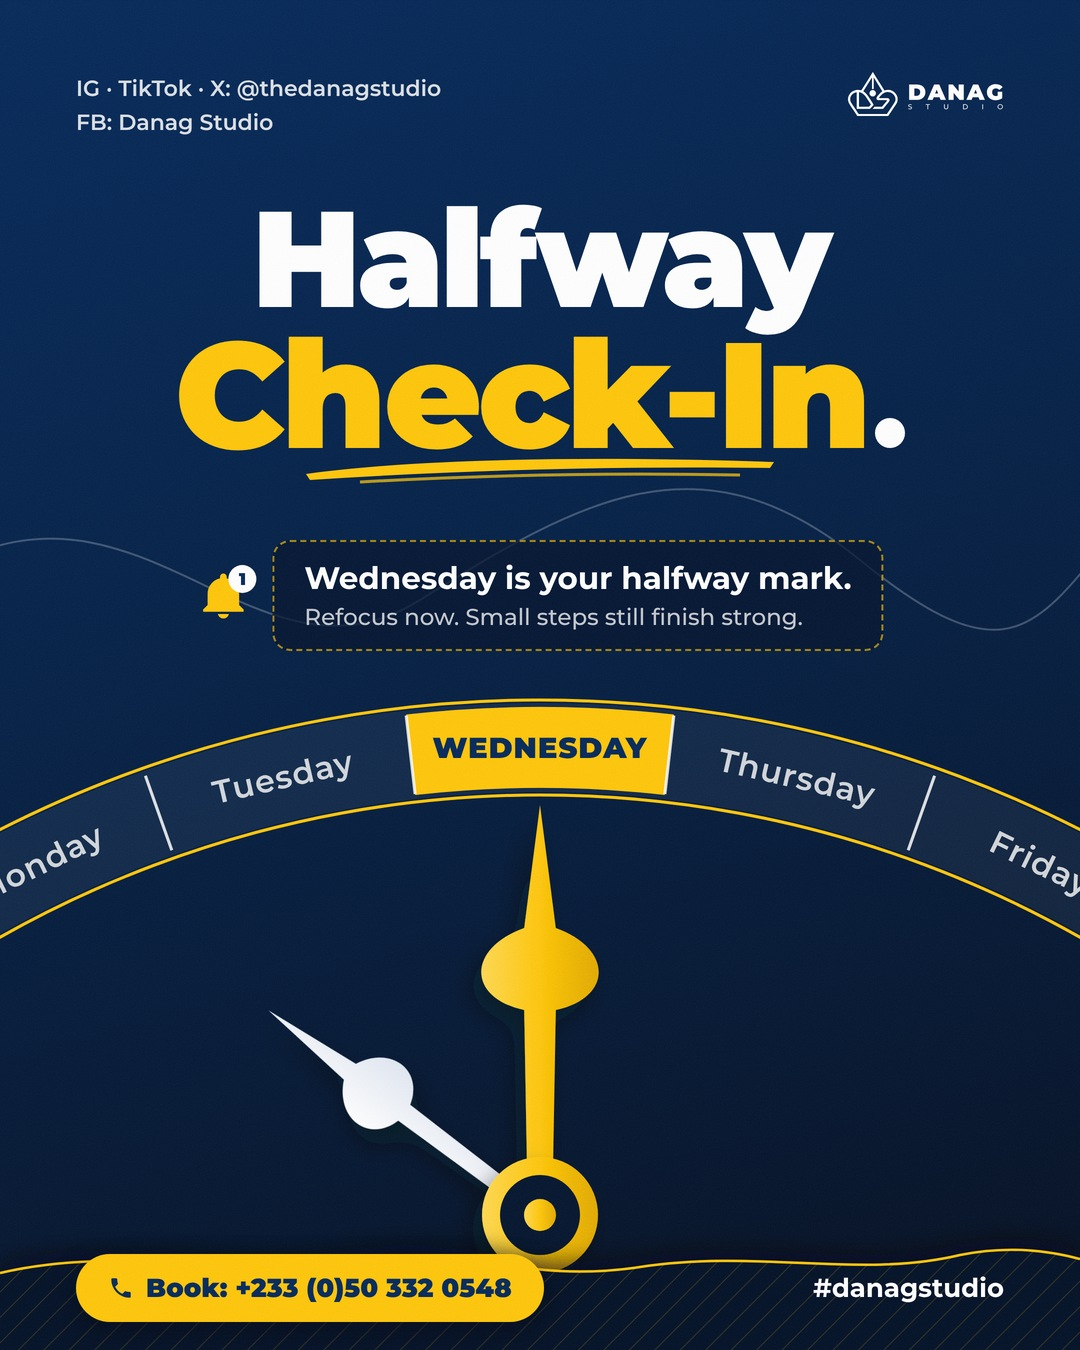
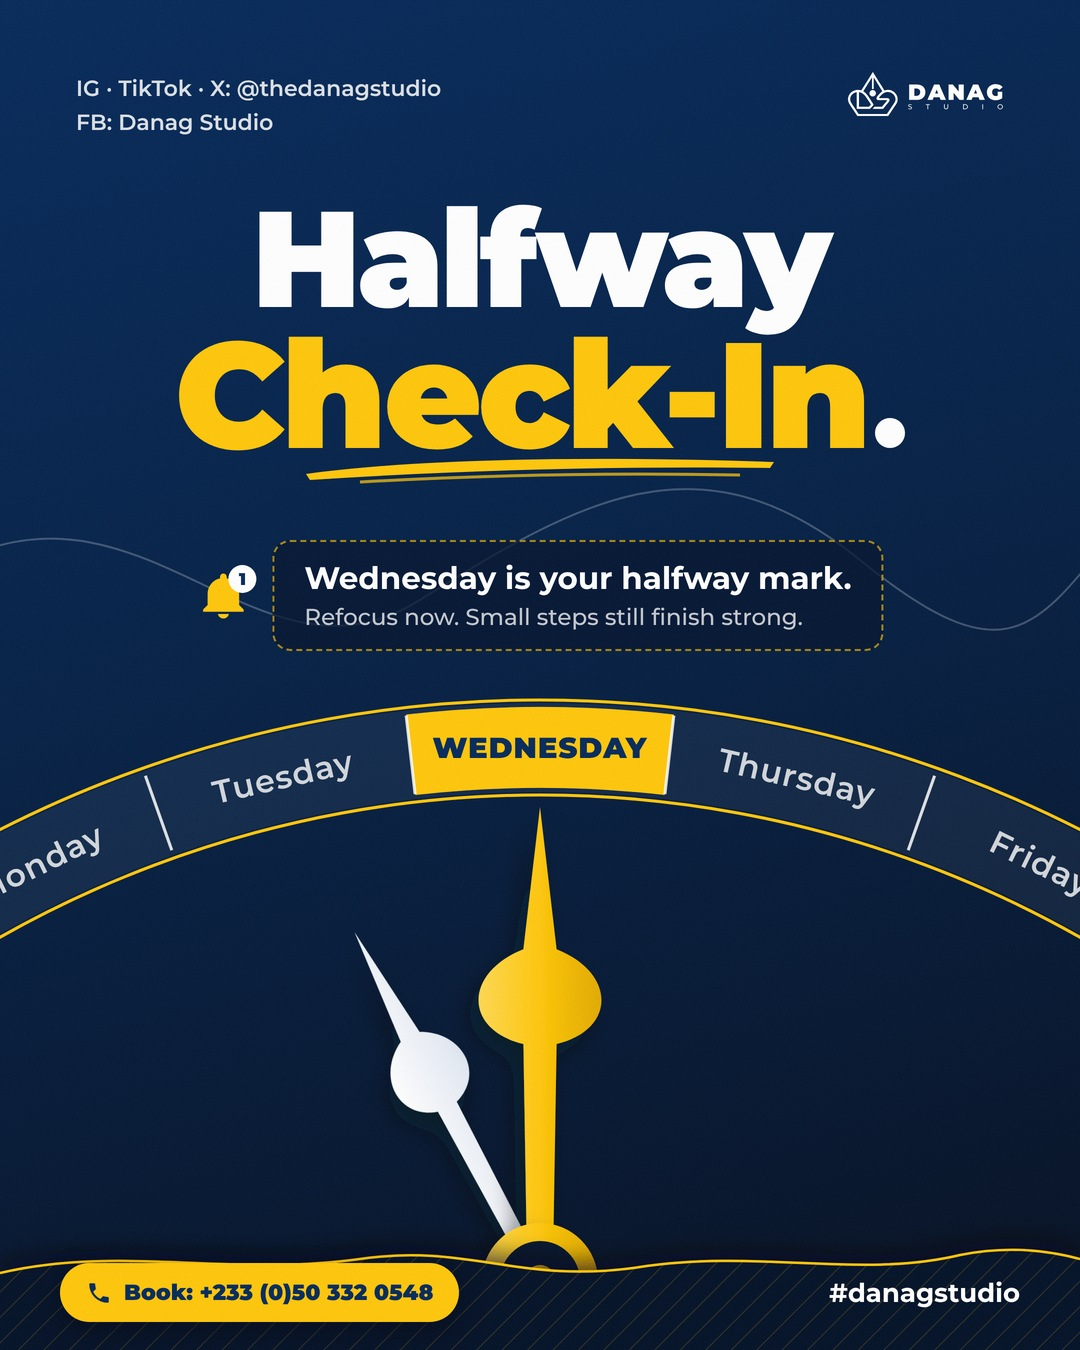
Wed 25 Nov: white hand to Tuesday, ring half cut
Claude-Session: https://claude.ai/code/session_016a1VN4sEuNiBsko23wNLQZ

Changed region(s): [[0.0306, 0.5911, 0.5806, 0.9956], [0.7639, 0.9333, 0.9472, 0.9644], [0.3361, 0.7156, 0.3667, 0.7467]]

diff --git a/promo/render_wed_dial.py b/promo/render_wed_dial.py
@@ -36,8 +36,8 @@ dial=f'''<svg class="a" style="inset:0;width:1080px;height:1350px;z-index:3" vie
 <filter id="sh" x="-50%" y="-20%" width="200%" height="140%"><feDropShadow dx="-10" dy="14" stdDeviation="12" flood-color="#000814" flood-opacity=".55"/></filter></defs>
 <path d="M-40,560 C150,470 260,700 420,600 S700,430 860,560 S1040,620 1140,500" stroke="rgba(255,255,255,.22)" stroke-width="2" fill="none"/>
 {band}
-{needle(340,-53,"url(#ww)",540,1215,.72)}
-{needle(410,0,"url(#gg)",540,1215,.95)}<circle cx="540" cy="1215" r="58" fill="url(#gg)" filter="url(#sh)"/><circle cx="540" cy="1215" r="40" fill="#011129"/><circle cx="540" cy="1215" r="16" fill="url(#gg)"/>
+{needle(395,-28,"url(#ww)",540,1281,.66)}
+{needle(474,0,"url(#gg)",540,1281,.86)}<circle cx="540" cy="1281" r="58" fill="url(#gg)" filter="url(#sh)"/><circle cx="540" cy="1281" r="40" fill="#011129"/><circle cx="540" cy="1281" r="16" fill="url(#gg)"/>
 </svg>'''
 brush=f'''<svg class="a" style="left:300px;top:448px;width:480px;height:40px;z-index:6" viewBox="0 0 480 40"><path d="M6,26 C120,10 300,8 474,14 L470,20 C320,18 160,22 10,32 Z" fill="{G}"/><path d="M60,34 C200,26 330,25 440,27" stroke="{G}" stroke-width="3" fill="none" opacity=".7"/></svg>'''
 bell='<svg viewBox="0 0 24 24" width="54" height="54"><path fill="#FFC107" d="M12 22a2.5 2.5 0 0 0 2.45-2h-4.9A2.5 2.5 0 0 0 12 22zm7-6V11a7 7 0 0 0-5.5-6.84V3.5a1.5 1.5 0 0 0-3 0v.66A7 7 0 0 0 5 11v5l-2 2v1h18v-1z"/></svg>'
@@ -58,8 +58,8 @@ html=f'''<body>
  </div>
 </div>
 
-<div class="a" style="left:76px;right:76px;bottom:28px;z-index:9;display:flex;align-items:center;justify-content:space-between">
- <div style="display:flex;align-items:center;gap:12px;background:{G};color:{N};font-weight:800;font-weight:900;font-size:26px;border-radius:40px;padding:18px 32px;box-shadow:0 10px 24px rgba(0,5,16,.6)">{ic("PH",N,26)}Book: +233 (0)50 332 0548</div>
+<div class="a" style="left:60px;right:60px;bottom:28px;z-index:9;display:flex;align-items:center;justify-content:space-between">
+ <div style="display:flex;align-items:center;gap:12px;background:{G};color:{N};font-weight:800;font-weight:900;font-size:22px;border-radius:40px;padding:16px 26px;box-shadow:0 10px 24px rgba(0,5,16,.6)">{ic("PH",N,26)}Book: +233 (0)50 332 0548</div>
  <div style="color:#fff;font-weight:700;font-size:26px">#danagstudio</div>
 </div>
 <svg class="a" style="left:0;top:1215px;width:1080px;height:160px;z-index:7" viewBox="0 0 1080 160"><defs>
